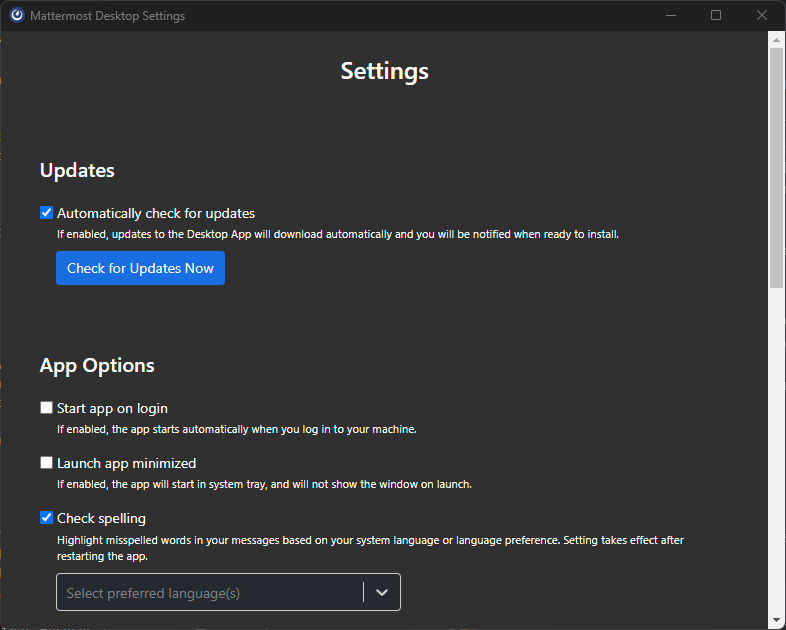
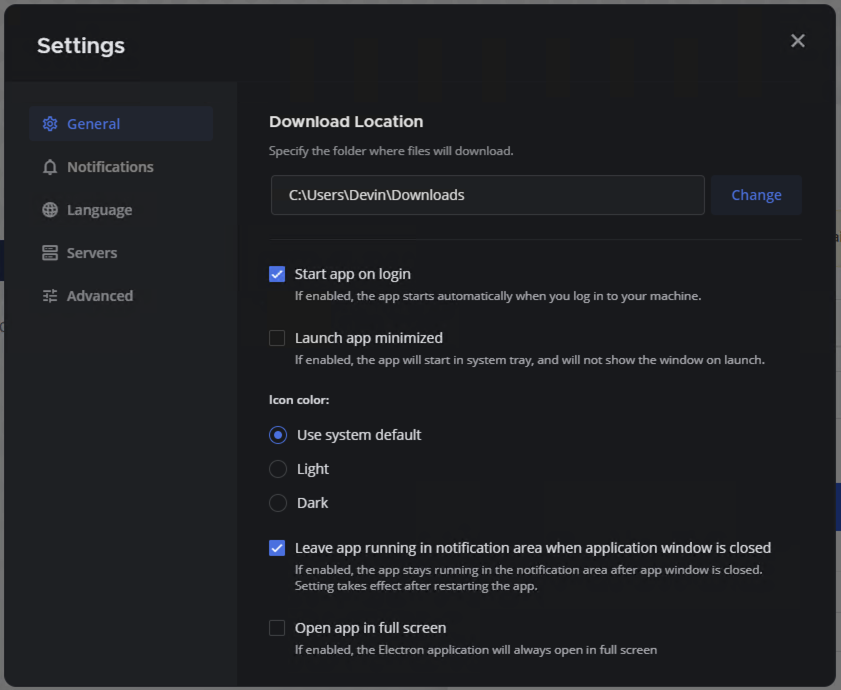
WIP

diff --git a/site/content/contribute/more-info/desktop/architecture/external-views.md b/site/content/contribute/more-info/desktop/architecture/external-views.md
@@ -8,6 +8,78 @@ aliases:
   - /contribute/desktop/architecture/external-views
 ---
 
-To provide access to different servers, we create a series of `BrowserView` objects that directly render on top of the Main Window and load the Mattermost Web App directly from the server they correspond to. We wrap these `BrowserView` objects into a `MattermostView` that manages the loading of the view and handles events such as navigation and notifications.
+External views are the renderer processes that display content from Mattermost servers. The Desktop App implements a dynamic multi-view architecture that allows users to organize their Mattermost workspace through multiple views, each representing an interactive web view that can display any part of the Mattermost Web App. Views can be displayed as tabs within the main window or as separate popout windows, providing a flexible workspace where views can be freely created, removed, and organized according to user needs.
 
-These views are also contained within and managed by the `viewManager` class. The class is responsible for adding and removing the views from the Main Window when the user needs them and handling IPC calls from the renderer processes and passing them to the child objects.
+For fundamental concepts about views, windows, and the manager architecture, see [View Concepts]({{< ref "/contribute/more-info/desktop/architecture/view-concepts" >}}).
+
+## Core Concepts
+
+The external view architecture is built around four fundamental concepts: servers, views, tabs, and windows. A **Server** represents a configured Mattermost server identified by a name and URL. A **View** is an object representing an interactive web view that can display the whole or part of the Mattermost Web App. A **Tab** is a view attached to the Main Desktop App window, always fully unlocked and similar to a browser tab. A **Window** is a view attached to its own `BrowserWindow` instance, which can be customized more heavily to suit specific needs.
+
+## Manager System
+
+The external view system uses a series of specialized managers that coordinate through direct method calls and event listeners. The `ServerManager` and `ViewManager` reside in the `common` module and contain no Electron-specific code, making them testable in isolation. The `WebContentsManager`, `TabManager`, and `PopoutManager` live in the `app` module and handle Electron-specific functionality such as creating `WebContentsView` instances and managing `BrowserWindow` objects.
+
+## ViewManager
+
+The `ViewManager` located at [common/views/viewManager](https://github.com/mattermost/desktop/blob/master/src/common/views/viewManager.ts) is the central manager for all external views. It maintains a map of all views keyed by their unique UUIDs and emits events when views are created, updated, or removed. The manager listens to `SERVER_ADDED` events from the `ServerManager` and automatically creates a single primary tab view for each server when the application starts.
+
+When a view is created through `ViewManager.createView()`, the manager first checks if the view limit has been reached. If the limit is exceeded, view creation fails and the user is notified. Otherwise, a new `MattermostView` object is instantiated with a unique UUID, associated with its server, and stored in the manager's internal map. The manager then emits a `VIEW_CREATED` event that other managers listen to.
+
+The primary view is designated when a tab view is first created for a server. If no primary view exists for a server when a new tab is created, that tab automatically becomes the primary view. The primary view cannot be closed while other views exist for that server, ensuring users always have a way to interact with each configured server. The primary view serves as the initial entry point for each server and is responsible for handling login, logout, and displaying unread message indicators.
+
+When a view's title needs to be updated, the `ViewManager.updateViewTitle()` method is called, which parses the title from the loaded content and emits `VIEW_TITLE_UPDATED` events that UI components listen to for display updates. When a view is removed, the `ViewManager.removeView()` method first checks if the view being removed is a primary view, and if so, designates another tab view as the new primary view if one exists. The removal process emits a `VIEW_REMOVED` event, which triggers cleanup in the appropriate manager.
+
+## TabManager
+
+The `TabManager` located at [app/tabs/tabManager.ts](https://github.com/mattermost/desktop/blob/master/src/app/tabs/tabManager.ts) manages all tab views, which are rendered within the Main Window as `WebContentsView` objects added as children of the Main Window's content view. The manager maintains tab order per server and tracks the currently active tab for each server.
+
+When a `VIEW_CREATED` event is emitted for a tab view, the `TabManager` coordinates with the `WebContentsManager` to create a `MattermostWebContentsView` instance and attach it to the Main Window's content view. When a user switches between tabs, the manager hides the previously visible tab's `WebContentsView` and shows the newly selected tab's view, ensuring only one tab is visible at a time within the Main Window.
+
+The tab manager ensures that at least one tab always remains open for each server. When a user attempts to close the last remaining tab for a server, the operation is prevented. Tab order is maintained separately for each server, allowing users to organize their workspace differently across multiple servers. The tab order can be updated through IPC calls from the renderer process, and these updates are persisted in the application state.
+
+## PopoutManager
+
+The `PopoutManager` located at [app/windows/popoutManager.ts](https://github.com/mattermost/desktop/blob/master/src/app/windows/popoutManager.ts) handles the creation and lifecycle of popout windows, which are rendered as separate `BrowserWindow` instances. These windows can be moved, resized, and positioned independently of the Main Window.
+
+When a `VIEW_CREATED` event is emitted for a window view, the `PopoutManager` creates a new `BaseWindow` instance with positioning logic that offsets the new window from the Main Window's position. For windows with the `isRHS` property set, the window is positioned on the right-hand side of the Main Window with a default width and matching height. The manager then coordinates with the `WebContentsManager` to create a `MattermostWebContentsView` instance and add it to the window's content view.
+
+When a popout window is requested, either through user action or programmatic request from the web app via the `OPEN_POPOUT` IPC channel, the `PopoutManager` first checks if a window with the same path already exists for that server. If an existing window is found, it is shown and focused rather than creating a duplicate. This deduplication prevents multiple windows from displaying the same content.
+
+Popout windows support parent-child relationships with tab views. When a popout window is created from a tab view, the window view stores a reference to its parent view ID. This relationship enables bidirectional communication between the parent and child views through IPC channels. When a popout window is closed, it notifies its parent view through the `POPOUT_CLOSED` event, allowing the parent to update its state accordingly.
+
+## WebContentsManager
+
+The `WebContentsManager` located at [app/views/webContentsManager.ts](https://github.com/mattermost/desktop/blob/master/src/app/views/webContentsManager.ts) creates and manages `WebContentsView` instances for external views. When a view needs to be created, the manager creates a `MattermostWebContentsView` instance with the appropriate web preferences and associates it with the view's parent window.
+
+As views load content from their Mattermost servers, the `WebContentsManager` attaches common event listeners to the `WebContents` object for navigation, input handling, and other web-related state updates. The manager maintains a map of all active `WebContentsView` instances and provides methods for retrieving views by their ID or by their `WebContents` ID, which is useful for routing IPC messages.
+
+When a view is removed, the `WebContentsManager` coordinates with the `TabManager` or `PopoutManager` to destroy the associated `WebContentsView` instance and remove it from the Main Window or close the popout window. The manager also provides functionality for clearing cache and reloading views when needed.
+
+## Inter-View Communication
+
+The multi-view architecture supports communication between views through Electron's IPC system. Parent views can send messages to their child popout windows using the `SEND_TO_POPOUT` channel, and popout windows can send messages back to their parents using the `SEND_TO_PARENT` channel. These communication channels are defined in `common/communication.ts` and are handled by the `PopoutManager` to route messages to the correct `WebContentsView` instances.
+
+This communication mechanism enables features such as synchronizing state between a parent tab and its popout windows, or allowing popout windows to request actions from their parent views when they encounter navigation restrictions.
+
+## Navigation Behavior
+
+The Desktop App implements strict navigation rules to ensure secure and predictable behavior across views. Internal navigation within a server remains within the same view to preserve the user's workflow. When encountering cross-server navigation or deep-linking into the application, the system determines the appropriate view to use based on the current state.
+
+If only one tab is open for the target server, the system navigates to the corresponding URL in that open tab. If multiple tabs are open for the server, the system opens a new tab and loads the requested URL there. This behavior ensures that navigation requests are handled in a predictable manner while maintaining the user's workspace organization.
+
+Popout windows behave similarly to tabs for navigation purposes. In cases where a popout window has a parent-child relationship and the popout is not allowed to navigate to a particular URL, the navigation request is passed to the parent view for handling. All popout windows are treated as untrusted remote code, just like tabs, and are subject to the same security restrictions.
+
+## View Type Conversion
+
+Views can be converted between tab and window types through the `ViewManager.updateViewType()` method. When a view's type changes, the `ViewManager` first emits a `VIEW_TYPE_REMOVED` event with the old type, then updates the view's type property, and finally emits a `VIEW_TYPE_ADDED` event with the new type. The `TabManager` and `PopoutManager` listen to these events and handle the transition by either removing the view from the Main Window and creating a popout window, or closing the popout window and adding the view back to the Main Window as a tab.
+
+## Server State and View Management
+
+The `ServerManager` tracks whether each server is logged in or not, and this state affects view behavior throughout the application. When a server's login state changes to logged out, all non-primary views for that server are disabled, preventing user interaction while maintaining the view structure. The primary view remains enabled and is responsible for handling the login flow. When a server is logged out, all popout windows associated with that server are automatically closed, as they cannot function without an authenticated session.
+
+## MattermostView
+
+The `MattermostView` class located at [common/views/MattermostView.ts](https://github.com/mattermost/desktop/blob/master/src/common/views/MattermostView.ts) provides the data model for external views. Each view instance contains properties such as a unique ID, server ID, view type (tab or window), title information, and optional properties for parent view relationships and popout-specific configuration.
+
+The class handles URL construction for loading content from Mattermost servers. The `getLoadingURL()` method constructs the appropriate URL based on the server's base URL and any initial path specified for the view. It handles server subpaths and ensures that the constructed URL is valid and internal to the server, falling back to the server's base URL if the path is invalid or external.

diff --git a/site/content/contribute/more-info/desktop/architecture/internal-views.md b/site/content/contribute/more-info/desktop/architecture/internal-views.md
@@ -8,57 +8,40 @@ aliases:
   - /contribute/desktop/architecture/internal-views
 ---
 
-There are several renderer processes that make up the internal interface of the Desktop App. These are all represented by singleton objects that reside in the Main Module. These classes are in charge of holding the corresponding `BrowserWindow` or `BrowserView` object, initializing any handlers specific to that view, and exposing any special functionality that other modules may need to either read or affect the view.
+Internal views are the renderer processes that make up the Desktop App's own user interface, distinct from the external Mattermost server views. These views load trusted application code and have full access to the `desktopAPI` module, allowing them to perform any action available through the IPC layer. All internal views are represented by singleton objects that reside in the `app` module and are responsible for managing their corresponding `BrowserWindow` or `WebContentsView` objects, initializing view-specific handlers, and exposing functionality that other modules may need to interact with.
 
-As all of these views only load trusted scripts in the renderer process, all of these views are given full access to the `desktopAPI` module, allowing them to perform basically any action that we allow for in the Desktop App via the IPC layer.
+For fundamental concepts about views, windows, and the manager architecture, see [View Concepts]({{< ref "/contribute/more-info/desktop/architecture/view-concepts" >}}).
 
-### Windows
+## Main Window
 
-These are the internally-managed windows acting as the main user interface points for the user. Each of these views are represented by a `BrowserWindow` object.
-
-#### Main window
+The Main Window is the primary application window that serves as the container for most of the Desktop App's interface. This window is created using the `BaseWindow` class, which provides common window functionality, and is managed by the `MainWindow` module located at [app/mainWindow/mainWindow](https://github.com/mattermost/desktop/blob/master/src/app/mainWindow/mainWindow.ts).
 
 ![Main Window screenshot](main-window.png)
 
-This is the primary view that encapsulates the core of the Desktop App interface. Most `BrowserView` objects are rendered using this window as their parent, and are affected by the behavior of this window. Most other controls, including the tray icon and taskbar/dock icon, interact with this window, and most of their functionality is tied to it as well.
+The Main Window serves as the primary container for the Desktop App interface. Most `WebContentsView` objects, including tab views for Mattermost servers, are rendered as children of this window's content view. The window's behavior affects all child views, and most application controls including the tray icon and taskbar or dock integration interact with this window.
 
-This window is managed by the `MainWindow` module located at [main/windows/mainWindow](https://github.com/mattermost/desktop/blob/master/src/main/windows/mainWindow.ts).
+The `MainWindow` class provides several key methods for managing the window. The `init()` method creates the underlying `BaseWindow` instance and sets up all necessary event listeners. The `get()` method returns the `BrowserWindow` object, which is directly exposed because many modules need to interact with the window directly. If `true` is passed to `get()`, it will call `init()` if the window doesn't exist, otherwise returning `undefined`. The `getBounds()` method returns the current size and position of the window, which is used for positioning child windows and views. The `focusThreeDotMenu()` method sends a message to focus the three-dot menu on Windows and Linux, triggered when the Alt key is pressed.
 
-##### Hooks
-- `init()`: Creates the `BrowserWindow` object for the Main Window and adds all appropriate listeners.
-- `get()`: Returns the `BrowserWindow` object for the Main Window. This is directly exposed as there are many different functions affecting the behavior of the window, and thus the encapsulating module often needs to pass that control to other modules. If `true` is passed as an argument, `init()` will be called if the window does not exist, otherwise `undefined` is returned.
-- `getBounds()`: Returns the current size and location of the `BrowserWindow`, used for resize functionality, and to ensure that child windows/views are positioned correctly.
-- `focusThreeDotMenu()`: Sends a message to the Main process that focuses the view and highlights and focuses the 3-dot menu on Windows/Linux. This is used when the `ALT` key is pressed as a shortcut to focus the menu.
+## Internal Views
 
-#### Settings window
+Internal views are `WebContentsView` objects that are rendered on top of existing windows to add functionality to the Desktop App interface. These views augment the application by providing overlays, modals, and other UI elements that must be rendered above the external Mattermost server views.
 
-![Settings Window screenshot](settings-window.png)
-
-This window is created when the user opens **Preferences** from the **File** menu. It contains an interface where the user can change settings specific to the Desktop App client that do not affect their Mattermost servers. This window is a child window of the Main Window and will close/hide when the Main Window is closed/hidden.
-
-This window is managed by the `SettingsWindow` module located at [main/windows/settingsWindow](https://github.com/mattermost/desktop/blob/master/src/main/windows/settingsWindow.ts).
-
-##### Hooks
-- `show()`: Shows the Settings Window if it exists and will create it if does not. When the window is closed, the `BrowserWindow` object is dereferenced.
-- `get()`: Retrieves the Settings Window `BrowserWindow` object if it exists and returns `undefined` if it does not.
-
-### Views
-
-These are the internally managed views that are rendered on top of existing windows, adding additional functionality. Each of these views are represented by a `BrowserView` object.
-
-Most of these views exist as they act as augments to the existing interface and must be rendered over top of the external sandbox Mattermost `BrowserViews`.
-
-#### Loading screen
+### Loading Screen
 
 ![Loading Screen screenshot](loading-screen.png)
 
-This is a `BrowserView` that renders over top of external Mattermost views that are loading. It is a cosmetic view that avoids the user having a white screen while the application is loading. The view is ephemeral should only be visible while the current external Mattermost view is loading.
+The Loading Screen is a `WebContentsView` that renders over external Mattermost views while they are loading content. This cosmetic view prevents users from seeing a blank white screen during the loading process. The view is ephemeral and should only be visible while the current external Mattermost view is loading.
 
-This view is managed by the `LoadingScreen` module located at [main/views/loadingScreen](https://github.com/mattermost/desktop/blob/master/src/main/views/loadingScreen.ts). Its parent is the Main Window.
+The Loading Screen is managed by the `LoadingScreen` module located at [app/views/loadingScreen](https://github.com/mattermost/desktop/blob/master/src/app/views/loadingScreen.ts) and is created as part of each `BaseWindow` instance. The `show()` method displays the loading screen over any other views currently rendered in the Main Window and begins the loading animation. The `fade()` method starts the removal process by sending a signal to the renderer to fade the screen and stop the animation, then removes the view from the window once the fade completes. The `setBounds()` method is called when the Main Window resizes while the loading screen is visible, ensuring the view maintains the correct size. The `setDarkMode()` method updates the view when the application's dark mode setting changes to maintain a consistent color scheme. The `isHidden()` method provides a helper to check whether the view is currently hidden.
 
-##### Hooks
-- `show()`: Displays the Loading Screen over top of any other `BrowserView` currently rendered in the Main Window and begins the animation.
-- `fade()`: Starts the process of removing the Loading Screen. First a signal is sent to the renderer to fade the screen and stop the animation. When that finishes, the view is removed from the window.
-- `setBounds()`: Calls when the Main Window resizes while the Loading Screen is still visible and the view needs to change its size as well.
-- `setDarkMode()`: Calls when the application's dark mode flag is changed, to ensure a consistent color scheme.
-- `isHidden()`: Helper method to check whether the view is hidden or not.
+### Settings Modal
+
+![Settings Window screenshot](settings-window.png)
+
+The Settings Modal is created when the user opens **Preferences** from the **File** menu. It provides an interface for changing settings specific to the Desktop App client that do not affect Mattermost server configurations. The settings are displayed as a modal overlay within the main window, rendered as part of the main window's renderer process.
+
+The settings interface is managed by the `SettingsModal` component located at [renderer/components/SettingsModal](https://github.com/mattermost/desktop/blob/master/src/renderer/components/SettingsModal/index.tsx). This component handles the display and management of all Desktop App settings, including server management, appearance preferences, and application behavior options.
+
+### URL View
+
+The URL View is a `WebContentsView` that displays link previews when users hover over links in Mattermost content. This view is ephemeral and appears temporarily to show information about the linked URL. The URL View is managed internally by the `BaseWindow` class and is created automatically for each window instance. It provides a way to preview external links without navigating away from the current view.

diff --git a/site/content/contribute/more-info/desktop/architecture/view-concepts.md b/site/content/contribute/more-info/desktop/architecture/view-concepts.md
@@ -1,0 +1,60 @@
+---
+title: "View concepts"
+heading: "View concepts"
+description: "Fundamental concepts and shared infrastructure for views in the Desktop App."
+date: 2024-01-01T00:00:00-00:00
+weight: 2
+aliases:
+  - /contribute/desktop/architecture/view-concepts
+---
+
+The Desktop App's view system is built on several fundamental concepts and shared infrastructure components that enable both internal application views and external Mattermost server views to function consistently. Understanding these core concepts is essential for working with either type of view.
+
+## BaseWindow
+
+The `BaseWindow` class located at [app/windows/baseWindow](https://github.com/mattermost/desktop/blob/master/src/app/windows/baseWindow.ts) serves as a wrapper around Electron's `BrowserWindow` that provides common functionality shared by all windows in the Desktop App. This abstraction layer ensures consistent behavior across the main window and all popout windows while encapsulating platform-specific configurations and common window management tasks.
+
+The `BaseWindow` class is responsible for initializing windows with standardized options including minimum size constraints, title bar styling, and web preferences. It manages the loading screen that appears while content is loading, handles the URL view that displays link previews when hovering over links, and coordinates theme management registration for all child views. The class also implements retry logic for IPC communication to ensure messages reach the renderer process even if the window isn't immediately ready, and handles keyboard input events such as the Alt key press for focusing the three-dot menu on Windows and Linux platforms.
+
+When a window is created, the `BaseWindow` constructor sets up event listeners for window lifecycle events including close, blur, unresponsive states, and fullscreen transitions. It also initializes a context menu and configures the window to prevent it from opening child windows, maintaining security boundaries. The class provides methods for showing and fading the loading screen, displaying URL previews, and sending messages to the renderer process with automatic retry handling.
+
+## WebContentsView and BrowserWindow
+
+The Desktop App uses two primary Electron objects for rendering content: `BrowserWindow` and `WebContentsView`. A `BrowserWindow` represents a complete window with its own frame, title bar, and system integration. Each `BrowserWindow` contains a main `WebContents` object that loads the initial page, and can have multiple `WebContentsView` objects added as children to its content view.
+
+`WebContentsView` is the modern Electron API that replaced the deprecated `BrowserView`. These views are lightweight rendering surfaces that can be added as children to a `BrowserWindow`'s content view, allowing multiple web views to be layered within a single window. Each `WebContentsView` has its own `WebContents` object that can load URLs independently, making them ideal for displaying multiple Mattermost server views within the main window or for overlay views like loading screens.
+
+The distinction between these two types is important: `BrowserWindow` objects represent top-level windows that users can move, resize, and interact with as separate application windows, while `WebContentsView` objects are embedded rendering surfaces that exist within a parent window's content area.
+
+## Manager Architecture
+
+The view system is built on an event-driven manager architecture where specialized manager classes coordinate through direct method calls and event listeners. Managers act as factories for objects with unique UUIDs and emit events when objects are added, edited, or deleted. This pattern ensures loose coupling between components while maintaining consistency across the system.
+
+Managers are organized into two categories based on their dependencies. Managers in the `common` module, such as `ServerManager` and `ViewManager`, contain no Electron-specific code and can be tested in isolation. Managers in the `app` module, such as `WebContentsManager`, `TabManager`, and `PopoutManager`, handle Electron-specific functionality like creating `WebContentsView` instances and managing `BrowserWindow` objects.
+
+The event-driven nature of this architecture means that when one manager performs an action, it emits events that other managers listen to and respond to accordingly. For example, when a server is removed, the `ServerManager` emits a `SERVER_REMOVED` event, which the `ViewManager` listens to and uses to automatically clean up all associated views. This pattern ensures that the system maintains consistency without requiring direct dependencies between managers.
+
+## View Lifecycle
+
+Views progress through a well-defined lifecycle from creation to removal, regardless of whether they are internal application views or external Mattermost server views. The lifecycle begins when a view is created, either programmatically or in response to user action. During creation, the view is assigned a unique identifier, associated with its parent or server, and stored in the appropriate manager's internal data structure.
+
+Once created, views enter an initialization phase where their underlying Electron components are set up. For views that load web content, this involves creating `WebContentsView` instances, attaching event listeners for navigation and input handling, and beginning to load the target URL. During this phase, loading screens may be displayed to provide visual feedback to the user.
+
+As views become active and load content, they enter a running state where they respond to user interactions and update their display based on content changes. Views may update their titles, handle navigation events, and communicate with other parts of the application through IPC channels. Throughout this phase, views maintain their state and handle events from their underlying web content.
+
+When a view is removed, either through user action or system cleanup, it enters a teardown phase. Event listeners are removed, the underlying Electron components are destroyed, and the view is removed from its parent window or closed if it's a standalone window. The removal process ensures that all resources are properly cleaned up and that the system remains in a consistent state.
+
+## IPC Communication
+
+Inter-process communication (IPC) is the mechanism by which views communicate with the main process and with each other. The Desktop App uses Electron's IPC system with custom channels defined in `common/communication.ts` to enable secure, structured communication between the renderer processes and the main process.
+
+Views that load trusted scripts, such as internal application views, are given full access to the `desktopAPI` module, allowing them to perform actions through the IPC layer. Views that load untrusted content from Mattermost servers have restricted access and can only communicate through specific, controlled channels that maintain security boundaries.
+
+The IPC system supports both synchronous and asynchronous communication patterns. Synchronous IPC is used for operations that need immediate results, while asynchronous IPC is used for operations that may take time or need to coordinate with other parts of the system. The communication channels are typed and validated to ensure that only expected data structures are passed between processes.
+
+## Security and Sandboxing
+
+The view system implements security boundaries between different types of views. Internal views that load trusted application code have full access to Electron and Node.js APIs through the IPC layer. External views that load content from Mattermost servers are sandboxed and have restricted access, preventing malicious server content from affecting the user's system.
+
+This security model ensures that while external views can display and interact with Mattermost server content, they cannot access file system operations, system APIs, or other sensitive functionality without explicit permission through controlled IPC channels. The sandboxing is enforced at the Electron level through web preferences and preload scripts that control which APIs are exposed to the renderer process.
+

diff --git a/site/content/contribute/more-info/desktop/testing.md b/site/content/contribute/more-info/desktop/testing.md
@@ -13,18 +13,20 @@ For most changes that happen to the desktop app, consider writing an automated t
 ### Unit tests
 The {{<newtabref href="https://jestjs.io/en/" title="Jest">}} test runner is used to run unit tests in the desktop app. You can run the following command to run the tests: `npm run test:unit`. You can also run subsets of the tests by filtering using `testNamePattern` or `testPathPattern` on the `spec` files.
 
-Unit tests are usually written for parts of the `common` and `main` modules, and usually cover individual functions or classes.
+Unit tests are usually written for parts of the `common, main,` and `app` modules, and usually cover individual functions or classes.
 We should endeavor to write our code such that it allows for simple testing, and any new features or bug fixes should likely have an associated unit test if possible. Check out {{<newtabref href="https://github.com/mattermost/desktop/pull/1874" title="[MM-40146][MM-40147] Unit tests for authManager and certificateManager #1874">}}, which is an example of a unit test pull request (PR).
 
-In order to ensure that most of the app is covered, we try to maintain 70% coverage of the `common` and `main` modules.
-You can view a coverage map by running this command: `npm run test:coverage`. 
+In order to ensure that most of the app is covered, we try to maintain 70% coverage of the `common, main,` and `app` modules.
+You can view a coverage map by running this command: `npm run test:unit-coverage`. 
 
 ### E2E tests
 We use a combination of two technologies to facilitate E2E testing in the desktop app:
 - **{{<newtabref href="https://playwright.dev/" title="Playwright">}}:** A testing framework similar to Cypress or Selenium that acts as a Chromium driver for testing. It's used to simulate interactions with the various web environments that make up the Desktop App, including the top bar (servers and tabs) and the individual Mattermost views.
 - **{{<newtabref href="https://robotjs.io/" title="RobotJS">}}:** A multi-platform OS level automation framework written in NodeJS, used for simulating arbitrary keyboard and mouse inputs. It's generally used to mock actions involving keyboard shortcuts and the Electron menu, as those are not web environments.
 
-To build the app and run the E2E tests, you can run the following command: `npm run test:e2e`. You can also run this command to build the tests without rebuilding the app: `npm run test:e2e:nobuild`. You can also run subsets of the tests by filtering using `grep`, for example: `npm run test:e2e:run -- --grep back_button`. 
+To build the app and run the E2E tests from the root directory, you can run the following command: `npm run e2e`. This command builds the app for testing, installs E2E dependencies, and then runs the E2E tests.
+
+You can also run subsets of the tests by filtering using `grep` when running the E2E tests from within the `e2e` directory. 
 
 E2E tests are usually written to cover parts of the `renderer` module and should generally cover complete workflows, such as creating and editing a server. You will generally need a combination of both Playwright and RobotJS APIs to test most workflows.
 

diff --git a/site/content/contribute/more-info/desktop/build-commands.md b/site/content/contribute/more-info/desktop/build-commands.md
@@ -21,11 +21,8 @@ Here's a list of all the commands used by the Desktop App. These can all be foun
     * `lint:js-quiet` - Same as above, but with the --quiet option
     * `fix:js` - Save as above, but attempts to fix some of the issues
 * `test` - Builds and runs all of the automated tests for the Desktop App
-    * `test:e2e` - Builds and runs the E2E tests for the Desktop App
-        * `test:e2e:no-rebuild` - Runs the E2E tests without rebuilding the entire app
-        * `test:e2e:run` - Runs the E2E tests without building them
-        * `test:e2e:send-report` - Uploads E2E results
-    * `test:unit` - Runs the unit tests for the main module
+    * `e2e` - Builds and runs the E2E tests for the Desktop App (runs from the root, which builds the app and then executes E2E tests in the `e2e/` directory)
+    * `test:unit` - Runs the unit tests for the app module
         * `test:unit-coverage` - Runs the unit tests and displays a coverage breakdown
 
 #### Building and Running
@@ -37,9 +34,7 @@ Here's a list of all the commands used by the Desktop App. These can all be foun
 * `build-prod` - Builds the app in production mode
     * `build-prod-mas` - Builds the app in production mode for Mac App Store distribution
     * `build-prod-upgrade` - Builds the app in production mode with auto-update functionality
-* `build-test`- Builds the app for E2E testing
-    * `build-test:e2e` - Builds only the E2E tests and not the app
-    * `build-test:robotjs` - Builds the RobotJS test module for the current Electron version
+* `build-test` - Builds the app for E2E testing
 * `start` - Runs the Desktop App using the current code built in the dist/ folder
 * `restart` - Re-runs the build process and then starts the app (amalgam of build and start)
 * `watch` - Runs the app, but watches for code changes and re-compiles on the fly when a file is changed

diff --git a/site/content/contribute/more-info/desktop/architecture/navigation.md b/site/content/contribute/more-info/desktop/architecture/navigation.md
@@ -21,7 +21,7 @@ The Mattermost Web App is self-contained, with the majority of links provided by
 - The application calls `browserHistory.push` directly within the Web App based on the user action
 Both of these methods will make use of the `browserHistory` module within the Web App.
 
-When one of the above methods is used, normally the Web App would update the browser's URL and change the state of the page. In the Desktop App, we instead send the arguments of the call to `browserHistory.push` up to the Electron Main Process. The information is received at the method `WindowManager.handleBrowserHistoryPush`, where we perform the following actions:
+When one of the above methods is used, normally the Web App would update the browser's URL and change the state of the page. In the Desktop App, we instead send the arguments of the call to `browserHistory.push` up to the Electron Main Process. The information is received at the method `NavigationManager.handleBrowserHistoryPush`, where we perform the following actions:
 - **Clean the path name by removing any part of the server's subpath pathname.** 
     - When the arguments are sent up to the Desktop App, it includes the subpath of the server hosting it. 
     - As an example, if the server URL is `http://server-1.com/mattermost`, any path that is received will start with `/mattermost` and we will need to remove that component. The same would be true for any other path following the origin `http://server-1.com`.

diff --git a/site/content/contribute/more-info/desktop/architecture/_index.md b/site/content/contribute/more-info/desktop/architecture/_index.md
@@ -32,9 +32,10 @@ Mattermost Desktop
 ├── resources/ - Assets such as images or sound files that the Desktop App uses
 ├── scripts/ - Automated scripts used for building or packaging the Desktop App
 └── src/ - Application source code
+    ├── app/ - Main application code including windows, views, menus, and navigation
     ├── assets/ - Assets such as images or sound files that the Desktop App uses
     ├── common/ - Common objects and utility functions that aren't specifically tied to Electron
-    ├── main/ - The majority of the main process code, including setup for the Electron app
-    ├── renderer/ - The web code for all of the main application wrapper, modals. and server dropdown views that are used by the renderer process
+    ├── main/ - Main process utilities and services, including core Electron setup, notifications, security, etc.
+    ├── renderer/ - The web code for all of the main application wrapper, modals, and server dropdown views that are used by the renderer process
     └── types/ - Common types for use between all of the individual modules
 ```

diff --git a/site/content/contribute/more-info/desktop/debugging.md b/site/content/contribute/more-info/desktop/debugging.md
@@ -29,7 +29,7 @@ You can access these instances by going to the **View > Developer Tools** menu (
 
 There are other `BrowserViews` that are governed seperately from the main application wrapper, including:
 - Dropdown Menu
-    - You can open this one by adding a line in the `main/teamDropdownView.ts` file. In the constructor, at the end, add:
+    - You can open this one by adding a line in the `app/mainWindow/serverDropdownView.ts` file. In the constructor, at the end, add:
         ```js
         this.view.webContents.openDevTools({mode: 'detach'});
         ```
@@ -43,7 +43,7 @@ There are other `BrowserViews` that are governed seperately from the main applic
         $env:MM_DEBUG_MODALS = 1
         ```
 - URL View
-    - You can open this one by adding a line in the `main/viewManager.ts` file. In the function `showURLView`, at the end, add:
+    - You can open this one by adding a line in the `app/views/urlView.ts` file. In the function that creates the URL view, at the end, add:
         ```js
         urlView.webContents.openDevTools({mode: 'detach'});
         ```
